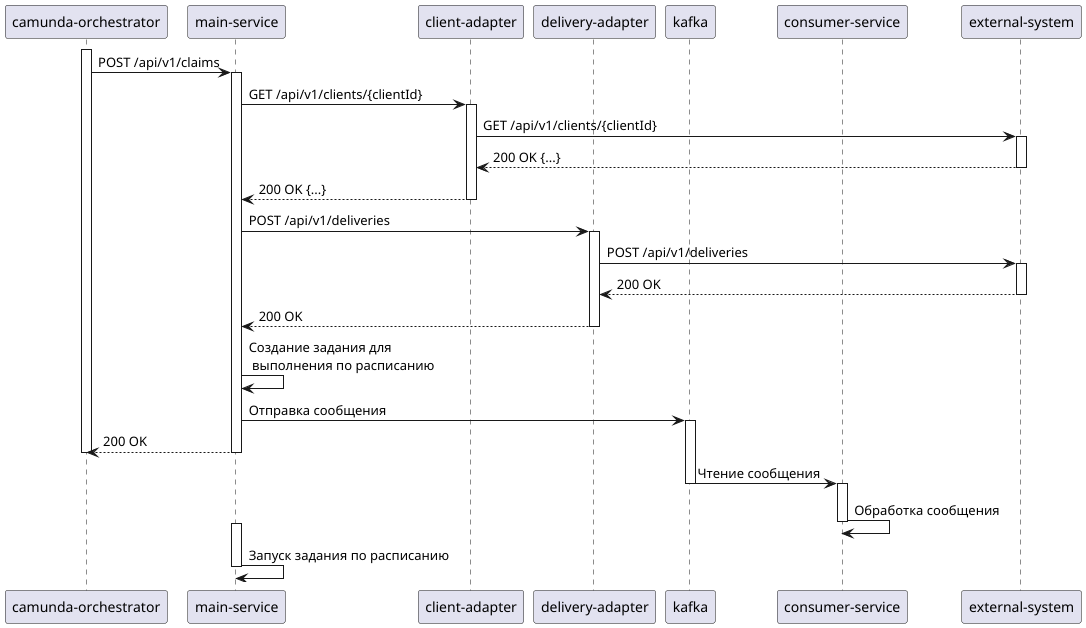
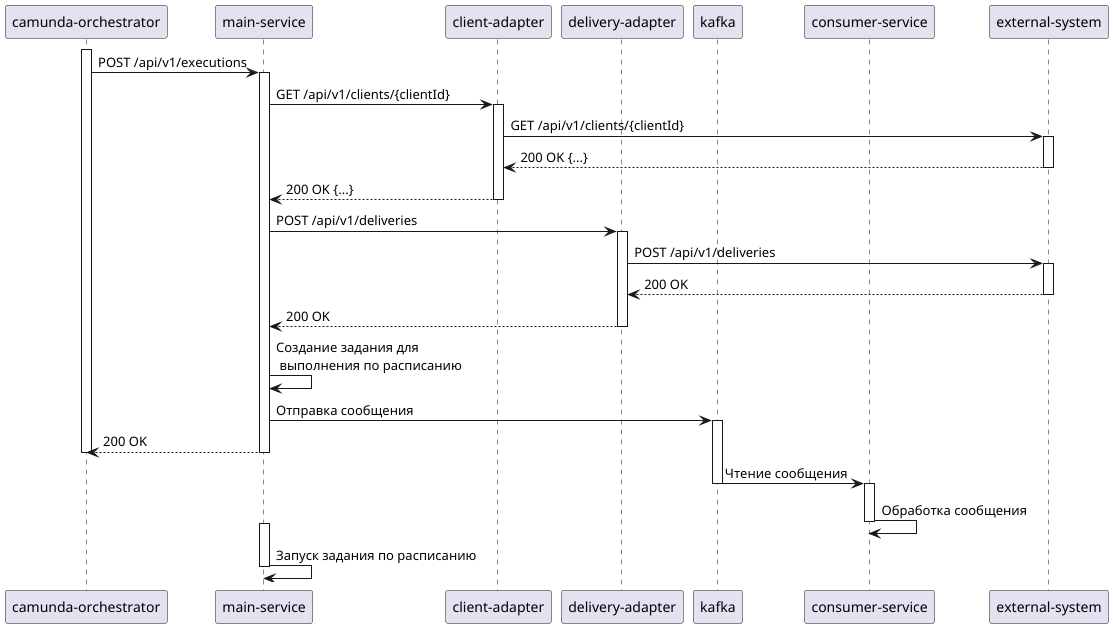
010 camunda

diff --git a/main-service/src/main/java/com/logging/presentation/main/service/controller/ClaimController.java b/main-service/src/main/java/com/logging/presentation/main/service/controller/ClaimController.java
@@ -1,11 +1,11 @@
 package com.logging.presentation.main.service.controller;
 
 import com.logging.presentation.api.MainServiceApi;
-import com.logging.presentation.api.kafka.ClaimEvent;
+import com.logging.presentation.api.kafka.ExecutionEvent;
 import com.logging.presentation.api.request.DeliveryCompletedCallbackRequest;
-import com.logging.presentation.api.request.MainServiceStartClaimRequest;
+import com.logging.presentation.api.request.MainServiceStartExecutionRequest;
 import com.logging.presentation.api.response.ClientAdapterClientResponse;
-import com.logging.presentation.api.response.MainServiceOneStartClaimResponse;
+import com.logging.presentation.api.response.MainServiceOneStartExecutionResponse;
 import com.logging.presentation.main.service.feign.ClientAdapterClient;
 import com.logging.presentation.main.service.feign.OrchestratorClient;
 import com.logging.presentation.main.service.scheduled.ScheduledService;
@@ -31,23 +31,23 @@ public class ClaimController implements MainServiceApi {
     private final OrchestratorClient orchestratorClient;
 
     @Override
-    public MainServiceOneStartClaimResponse start(MainServiceStartClaimRequest startClaimRequest) {
-        UUID claimId = startClaimRequest.getClaimId();
-        if (claimId == null) {
-          claimId = UUID.randomUUID();
-          stampContext.add("claimId", claimId.toString());
-          log.info("Caught request {}", startClaimRequest);
+    public MainServiceOneStartExecutionResponse start(MainServiceStartExecutionRequest startExecutionRequest) {
+        UUID executionId = startExecutionRequest.getExecutionId();
+        if (executionId == null) {
+          executionId = UUID.randomUUID();
+          stampContext.add("executionId", executionId.toString());
+          log.info("Caught request {}", startExecutionRequest);
         }
-        ClientAdapterClientResponse client = clientAdapterClient.getClient(startClaimRequest.getClientId());
-        deliveryService.startDelivery(claimId, client);
-        scheduledService.addJob(claimId, "Тестовый текст");
-        kafkaProducer.sendMessage(new ClaimEvent(claimId, "Текст сообщения"));
-        return new MainServiceOneStartClaimResponse(claimId);
+        ClientAdapterClientResponse client = clientAdapterClient.getClient(startExecutionRequest.getClientId());
+        deliveryService.startDelivery(executionId, client);
+        scheduledService.addJob(executionId, "Тестовый текст");
+        kafkaProducer.sendMessage(new ExecutionEvent(executionId, "Текст сообщения"));
+        return new MainServiceOneStartExecutionResponse(executionId);
     }
 
     @Override
-    public void delivered(UUID claimId, DeliveryCompletedCallbackRequest deliveryCallbackRequest) {
-      orchestratorClient.delivered(claimId);
+    public void delivered(UUID executionId, DeliveryCompletedCallbackRequest deliveryCallbackRequest) {
+      orchestratorClient.delivered(executionId);
       log.info("Успех!");
     }
 }

diff --git a/camunda-orchestrator/src/main/java/com/logging/presentation/camunda/orchestrator/controller/OrchestratorController.java b/camunda-orchestrator/src/main/java/com/logging/presentation/camunda/orchestrator/controller/OrchestratorController.java
@@ -1,8 +1,8 @@
 package com.logging.presentation.camunda.orchestrator.controller;
 
 import com.logging.presentation.api.OrchestratorApi;
-import com.logging.presentation.api.request.OrchestratorStartClaimRequest;
-import com.logging.presentation.api.response.OrchestratorStartClaimResponse;
+import com.logging.presentation.api.request.OrchestratorStartExecutionRequest;
+import com.logging.presentation.api.response.OrchestratorStartExecutionResponse;
 import io.github.shurupov.logstamp.core.StampContext;
 import java.util.Map;
 import java.util.UUID;
@@ -19,24 +19,24 @@ public class OrchestratorController implements OrchestratorApi {
   private final StampContext stampContext;
 
   @Override
-  public OrchestratorStartClaimResponse createClaim(OrchestratorStartClaimRequest request) {
-    if (request.getClaimId() == null) {
-      request.setClaimId(UUID.randomUUID());
-      stampContext.add("claimId", request.getClaimId().toString());
+  public OrchestratorStartExecutionResponse createClaim(OrchestratorStartExecutionRequest request) {
+    if (request.getExecutionId() == null) {
+      request.setExecutionId(UUID.randomUUID());
+      stampContext.add("executionId", request.getExecutionId().toString());
     }
 
     runtimeService.startProcessInstanceByKey(
         "process",
-        request.getClaimId().toString(),
-        Map.of("claimId", request.getClaimId(), "clientId", request.getClientId())
+        request.getExecutionId().toString(),
+        Map.of("executionId", request.getExecutionId(), "clientId", request.getClientId())
     );
-    return new OrchestratorStartClaimResponse(request.getClaimId());
+    return new OrchestratorStartExecutionResponse(request.getExecutionId());
   }
 
   @Override
-  public void delivered(UUID claimId) {
+  public void delivered(UUID executionId) {
     ProcessInstance processInstance = runtimeService.createProcessInstanceQuery()
-        .processInstanceBusinessKey(claimId.toString())
+        .processInstanceBusinessKey(executionId.toString())
         .singleResult();
     if (processInstance != null) {
       runtimeService.createMessageCorrelation("DELIVERED")

diff --git a/main-service/src/main/java/com/logging/presentation/main/service/service/KafkaProducer.java b/main-service/src/main/java/com/logging/presentation/main/service/service/KafkaProducer.java
@@ -2,7 +2,7 @@ package com.logging.presentation.main.service.service;
 
 import com.fasterxml.jackson.core.JsonProcessingException;
 import com.fasterxml.jackson.databind.ObjectMapper;
-import com.logging.presentation.api.kafka.ClaimEvent;
+import com.logging.presentation.api.kafka.ExecutionEvent;
 import lombok.RequiredArgsConstructor;
 import lombok.extern.slf4j.Slf4j;
 import org.apache.kafka.clients.producer.ProducerRecord;
@@ -19,18 +19,18 @@ public class KafkaProducer {
     @Value("${kafka.topic:claim}")
     private final String kafkaTopic;
 
-    private final KafkaTemplate<String, ClaimEvent> kafkaTemplate;
+    private final KafkaTemplate<String, ExecutionEvent> kafkaTemplate;
     private final ObjectMapper objectMapper;
 
-    public void sendMessage(ClaimEvent claimEvent) {
-        String claimId = claimEvent.getClaimId().toString();
-        ProducerRecord<String, ClaimEvent> producerRecord = new ProducerRecord<>(kafkaTopic, claimId, claimEvent);
+    public void sendMessage(ExecutionEvent executionEvent) {
+        String executionId = executionEvent.getExecutionId().toString();
+        ProducerRecord<String, ExecutionEvent> producerRecord = new ProducerRecord<>(kafkaTopic, executionId, executionEvent);
 
       try {
-        MDC.put("kafka.body", objectMapper.writerWithDefaultPrettyPrinter().writeValueAsString(claimEvent));
+        MDC.put("kafka.body", objectMapper.writerWithDefaultPrettyPrinter().writeValueAsString(executionEvent));
         MDC.put("kafka.action", "produce");
         MDC.put("kafka.topic", "claim");
-        log.trace("{} sent:", claimEvent.getClass().getSimpleName());
+        log.trace("{} sent:", executionEvent.getClass().getSimpleName());
       } catch (JsonProcessingException e) {
         log.warn(e.getMessage(), e);
       }

diff --git a/api/src/main/java/com/logging/presentation/api/MainServiceApi.java b/api/src/main/java/com/logging/presentation/api/MainServiceApi.java
@@ -1,8 +1,8 @@
 package com.logging.presentation.api;
 
 import com.logging.presentation.api.request.DeliveryCompletedCallbackRequest;
-import com.logging.presentation.api.request.MainServiceStartClaimRequest;
-import com.logging.presentation.api.response.MainServiceOneStartClaimResponse;
+import com.logging.presentation.api.request.MainServiceStartExecutionRequest;
+import com.logging.presentation.api.response.MainServiceOneStartExecutionResponse;
 import org.springframework.web.bind.annotation.PatchMapping;
 import org.springframework.web.bind.annotation.PathVariable;
 import org.springframework.web.bind.annotation.PostMapping;
@@ -12,9 +12,9 @@ import java.util.UUID;
 
 public interface MainServiceApi {
 
-    @PostMapping("/v1/claims")
-    MainServiceOneStartClaimResponse start(@RequestBody MainServiceStartClaimRequest startClaimRequest);
+    @PostMapping("/v1/executions")
+    MainServiceOneStartExecutionResponse start(@RequestBody MainServiceStartExecutionRequest startExecutionRequest);
 
-    @PatchMapping("/v1/claims/{claimId}/delivered")
-    void delivered(@PathVariable(name = "claimId") UUID claimId, @RequestBody DeliveryCompletedCallbackRequest deliveryCallbackRequest);
+    @PatchMapping("/v1/executions/{executionId}/delivered")
+    void delivered(@PathVariable(name = "executionId") UUID executionId, @RequestBody DeliveryCompletedCallbackRequest deliveryCallbackRequest);
 }

diff --git a/api/src/main/java/com/logging/presentation/api/OrchestratorApi.java b/api/src/main/java/com/logging/presentation/api/OrchestratorApi.java
@@ -1,7 +1,7 @@
 package com.logging.presentation.api;
 
-import com.logging.presentation.api.request.OrchestratorStartClaimRequest;
-import com.logging.presentation.api.response.OrchestratorStartClaimResponse;
+import com.logging.presentation.api.request.OrchestratorStartExecutionRequest;
+import com.logging.presentation.api.response.OrchestratorStartExecutionResponse;
 import java.util.UUID;
 import org.springframework.web.bind.annotation.PathVariable;
 import org.springframework.web.bind.annotation.PostMapping;
@@ -9,9 +9,9 @@ import org.springframework.web.bind.annotation.RequestBody;
 
 public interface OrchestratorApi {
 
-  @PostMapping("/v1/claims")
-  OrchestratorStartClaimResponse createClaim(@RequestBody OrchestratorStartClaimRequest request);
+  @PostMapping("/v1/executions")
+  OrchestratorStartExecutionResponse createClaim(@RequestBody OrchestratorStartExecutionRequest request);
 
-  @PostMapping("/v1/claims/{claimId}/delivered")
-  void delivered(@PathVariable(name = "claimId") UUID claimId);
+  @PostMapping("/v1/executions/{executionId}/delivered")
+  void delivered(@PathVariable(name = "executionId") UUID executionId);
 }

diff --git a/consumer-service/src/main/java/com/logging/presentation/consumer/service/service/KafkaConsumer.java b/consumer-service/src/main/java/com/logging/presentation/consumer/service/service/KafkaConsumer.java
@@ -1,6 +1,6 @@
 package com.logging.presentation.consumer.service.service;
 
-import com.logging.presentation.api.kafka.ClaimEvent;
+import com.logging.presentation.api.kafka.ExecutionEvent;
 import lombok.extern.slf4j.Slf4j;
 import org.apache.kafka.clients.consumer.ConsumerRecord;
 import org.springframework.kafka.annotation.KafkaListener;
@@ -12,8 +12,8 @@ import org.springframework.stereotype.Component;
 public class KafkaConsumer {
 
     @KafkaListener(topics = "${kafka.topic:claim}")
-    public void listenMessage(ConsumerRecord<String, ClaimEvent> consumerRecord) {
-        ClaimEvent claimEvent = consumerRecord.value();
-        log.info("Обработка сообщения: {}", claimEvent.getContent());
+    public void listenMessage(ConsumerRecord<String, ExecutionEvent> consumerRecord) {
+        ExecutionEvent executionEvent = consumerRecord.value();
+        log.info("Обработка сообщения: {}", executionEvent.getContent());
     }
 }

diff --git a/delivery-adapter/src/main/java/com/logging/presentation/delivery/adapter/controller/FromDeliveryIdentifierExtractor.java b/delivery-adapter/src/main/java/com/logging/presentation/delivery/adapter/controller/FromDeliveryIdentifierExtractor.java
@@ -15,7 +15,7 @@ import java.util.regex.Pattern;
 @RequiredArgsConstructor
 public class FromDeliveryIdentifierExtractor implements HttpRequestStampExtractor {
 
-    private static final Pattern URL_CALLBACK_PATTERN = Pattern.compile("/v1/deliveries/([^/]+)/delivered");
+    private static final Pattern URL_CALLBACK_PATTERN = Pattern.compile("/v1/executions/([^/]+)/delivered");
 
     @Override
     public Map<String, String> typedExtract(CachedBodyHttpServletRequest request) {
@@ -28,11 +28,11 @@ public class FromDeliveryIdentifierExtractor implements HttpRequestStampExtracto
                 return Map.of();
             }
 
-            String textClaimId = matcher.group(1);
+            String textExecutionId = matcher.group(1);
 
-            return Map.of("claimId", textClaimId);
+            return Map.of("executionId", textExecutionId);
         } catch (Exception e) {
-            log.warn("Не удалось вычитать параметр claimId из запроса", e);
+            log.warn("Не удалось вычитать параметр executionId из запроса", e);
             return Map.of();
         }
     }

diff --git a/camunda-orchestrator/src/main/java/com/logging/presentation/camunda/orchestrator/delegate/StartDelegate.java b/camunda-orchestrator/src/main/java/com/logging/presentation/camunda/orchestrator/delegate/StartDelegate.java
@@ -1,6 +1,6 @@
 package com.logging.presentation.camunda.orchestrator.delegate;
 
-import com.logging.presentation.api.request.MainServiceStartClaimRequest;
+import com.logging.presentation.api.request.MainServiceStartExecutionRequest;
 import com.logging.presentation.camunda.orchestrator.feign.MainServiceClient;
 import java.util.UUID;
 import lombok.RequiredArgsConstructor;
@@ -18,8 +18,8 @@ public class StartDelegate implements JavaDelegate {
 
   @Override
   public void execute(DelegateExecution execution) throws Exception {
-    mainServiceClient.start(new MainServiceStartClaimRequest(
-        (UUID) execution.getVariable("claimId"),
+    mainServiceClient.start(new MainServiceStartExecutionRequest(
+        (UUID) execution.getVariable("executionId"),
         (Long) execution.getVariable("clientId")
     ));
     log.info("Выполнено \"{}\"", execution.getCurrentActivityName());

diff --git a/api/src/main/java/com/logging/presentation/api/DeliveryAdapterApi.java b/api/src/main/java/com/logging/presentation/api/DeliveryAdapterApi.java
@@ -14,6 +14,6 @@ public interface DeliveryAdapterApi {
     @PostMapping("/v1/deliveries")
     void startDelivery(StartDeliveryRequest startDeliveryRequest);
 
-    @PatchMapping("/v1/deliveries/{claimId}/delivered")
-    void delivered(@PathVariable(name = "claimId") UUID claimId, @RequestBody DeliveryCompletedCallbackRequest deliveryCallbackRequest);
+    @PatchMapping("/v1/executions/{executionId}/delivered")
+    void delivered(@PathVariable(name = "executionId") UUID executionId, @RequestBody DeliveryCompletedCallbackRequest deliveryCallbackRequest);
 }

diff --git a/delivery-adapter/src/main/java/com/logging/presentation/delivery/adapter/controller/DeliveryController.java b/delivery-adapter/src/main/java/com/logging/presentation/delivery/adapter/controller/DeliveryController.java
@@ -25,7 +25,7 @@ public class DeliveryController implements DeliveryAdapterApi {
     }
 
     @Override
-    public void delivered(UUID claimId, DeliveryCompletedCallbackRequest deliveryCallbackRequest) {
-        mainServiceClient.delivered(claimId, deliveryCallbackRequest);
+    public void delivered(UUID executionId, DeliveryCompletedCallbackRequest deliveryCallbackRequest) {
+        mainServiceClient.delivered(executionId, deliveryCallbackRequest);
     }
 }

diff --git a/main-service/src/main/java/com/logging/presentation/main/service/scheduled/JobService.java b/main-service/src/main/java/com/logging/presentation/main/service/scheduled/JobService.java
@@ -13,12 +13,12 @@ public class JobService {
 
     @AddStamps(initiator = "scheduler")
     public void doJob(Job job) {
-        log.info("Выполнение запланированной задачи: {}: {}", job.getClaimId(), job.getText());
+        log.info("Выполнение запланированной задачи: {}: {}", job.getExecutionId(), job.getText());
     }
 
     @Value
     public static class Job {
-        UUID claimId;
+        UUID executionId;
         String text;
     }
 }

diff --git a/main-service/src/main/java/com/logging/presentation/main/service/scheduled/ScheduledService.java b/main-service/src/main/java/com/logging/presentation/main/service/scheduled/ScheduledService.java
@@ -20,8 +20,8 @@ public class ScheduledService {
 
     private final JobService jobService;
 
-    public void addJob(UUID claimId, String text) {
-        jobs.put(claimId, text);
+    public void addJob(UUID executionId, String text) {
+        jobs.put(executionId, text);
     }
 
     @Scheduled(cron = "*/20 * * * * *")